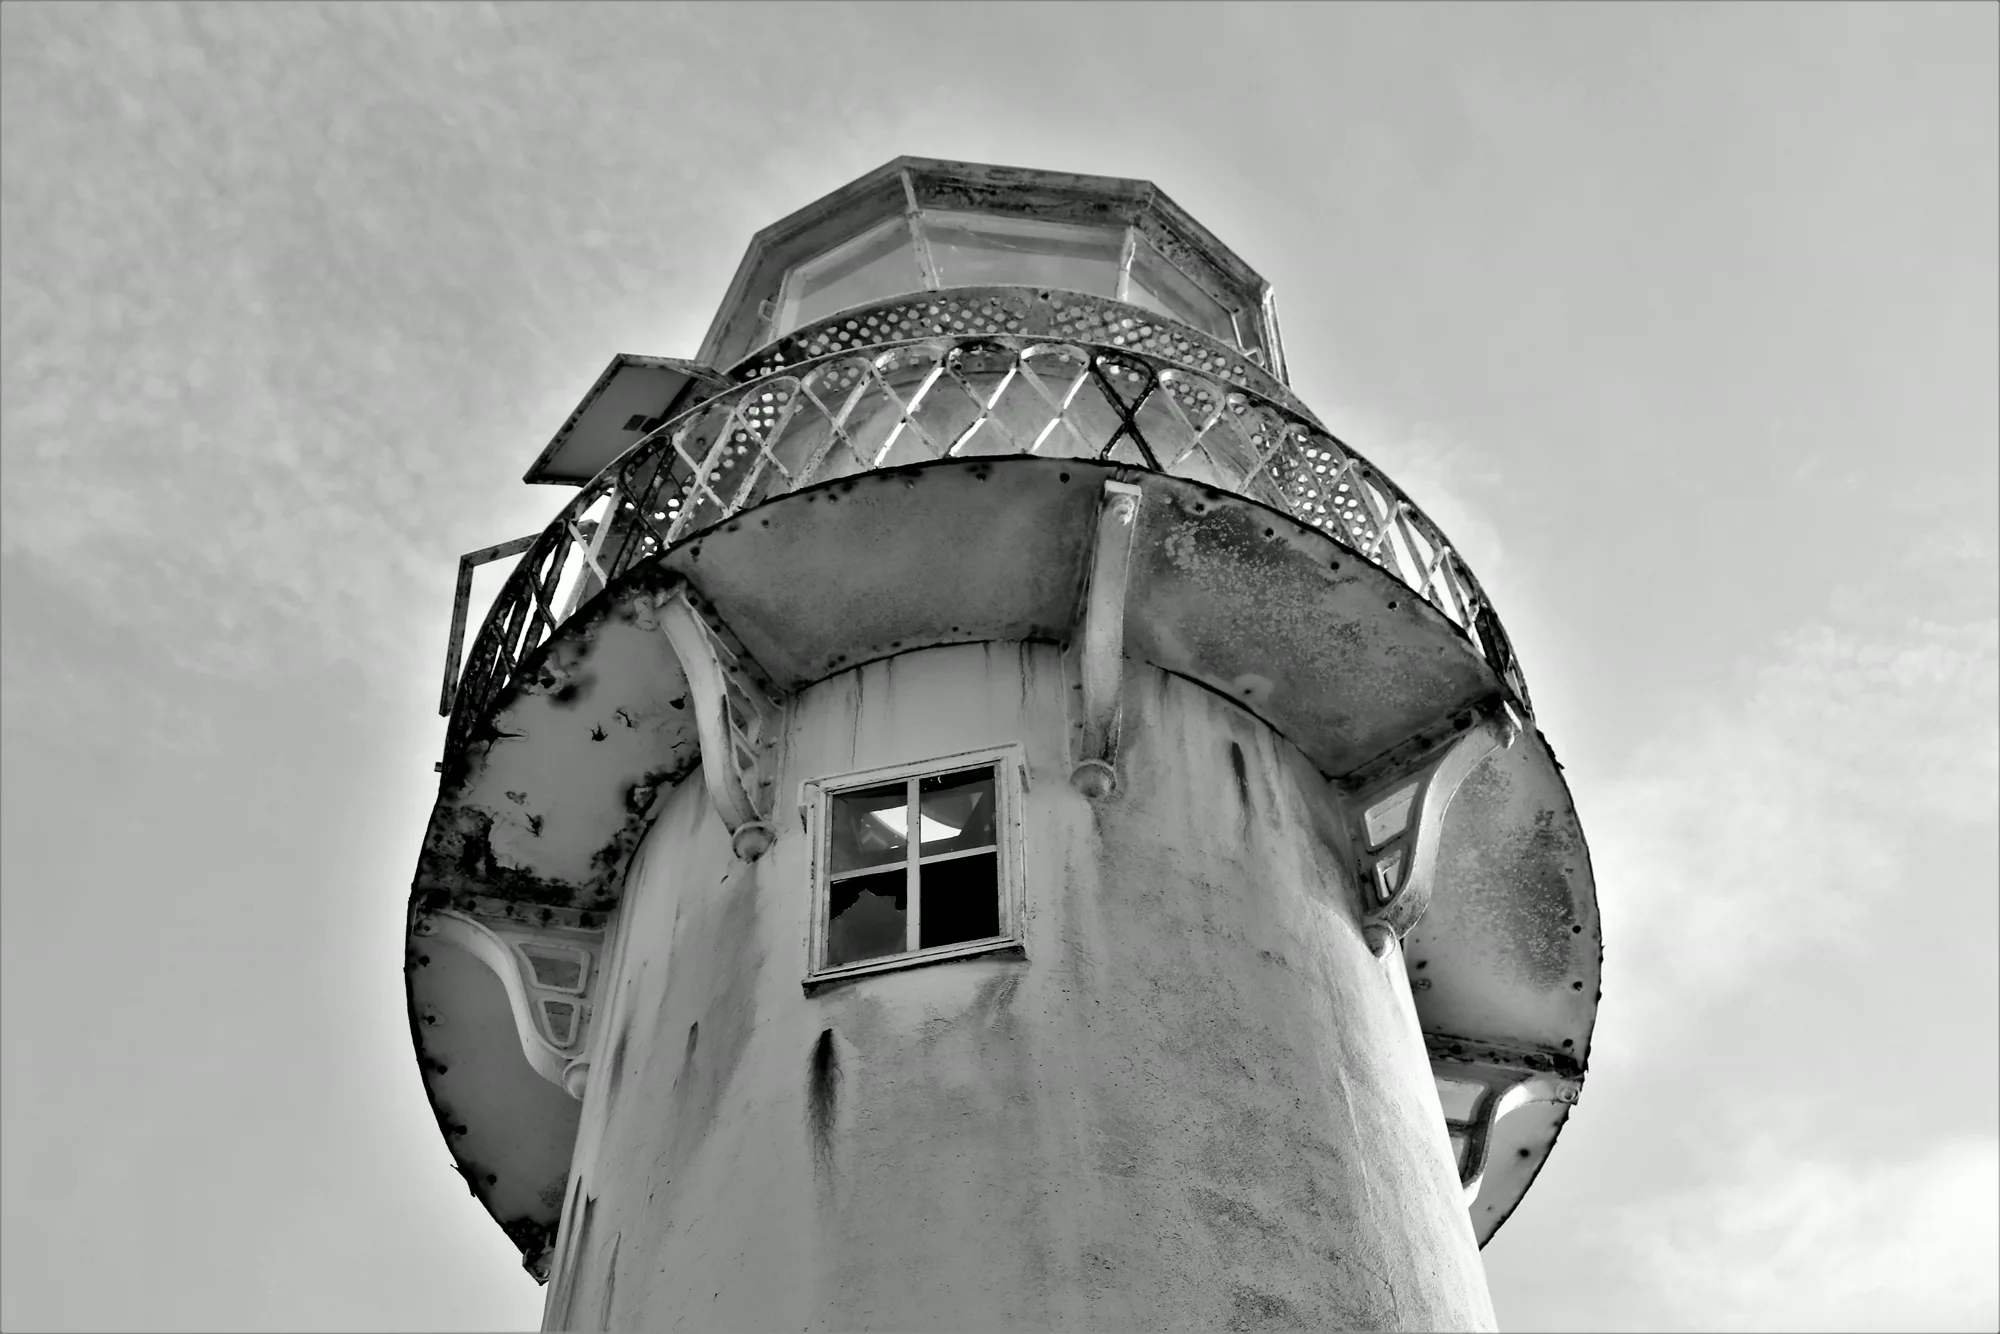
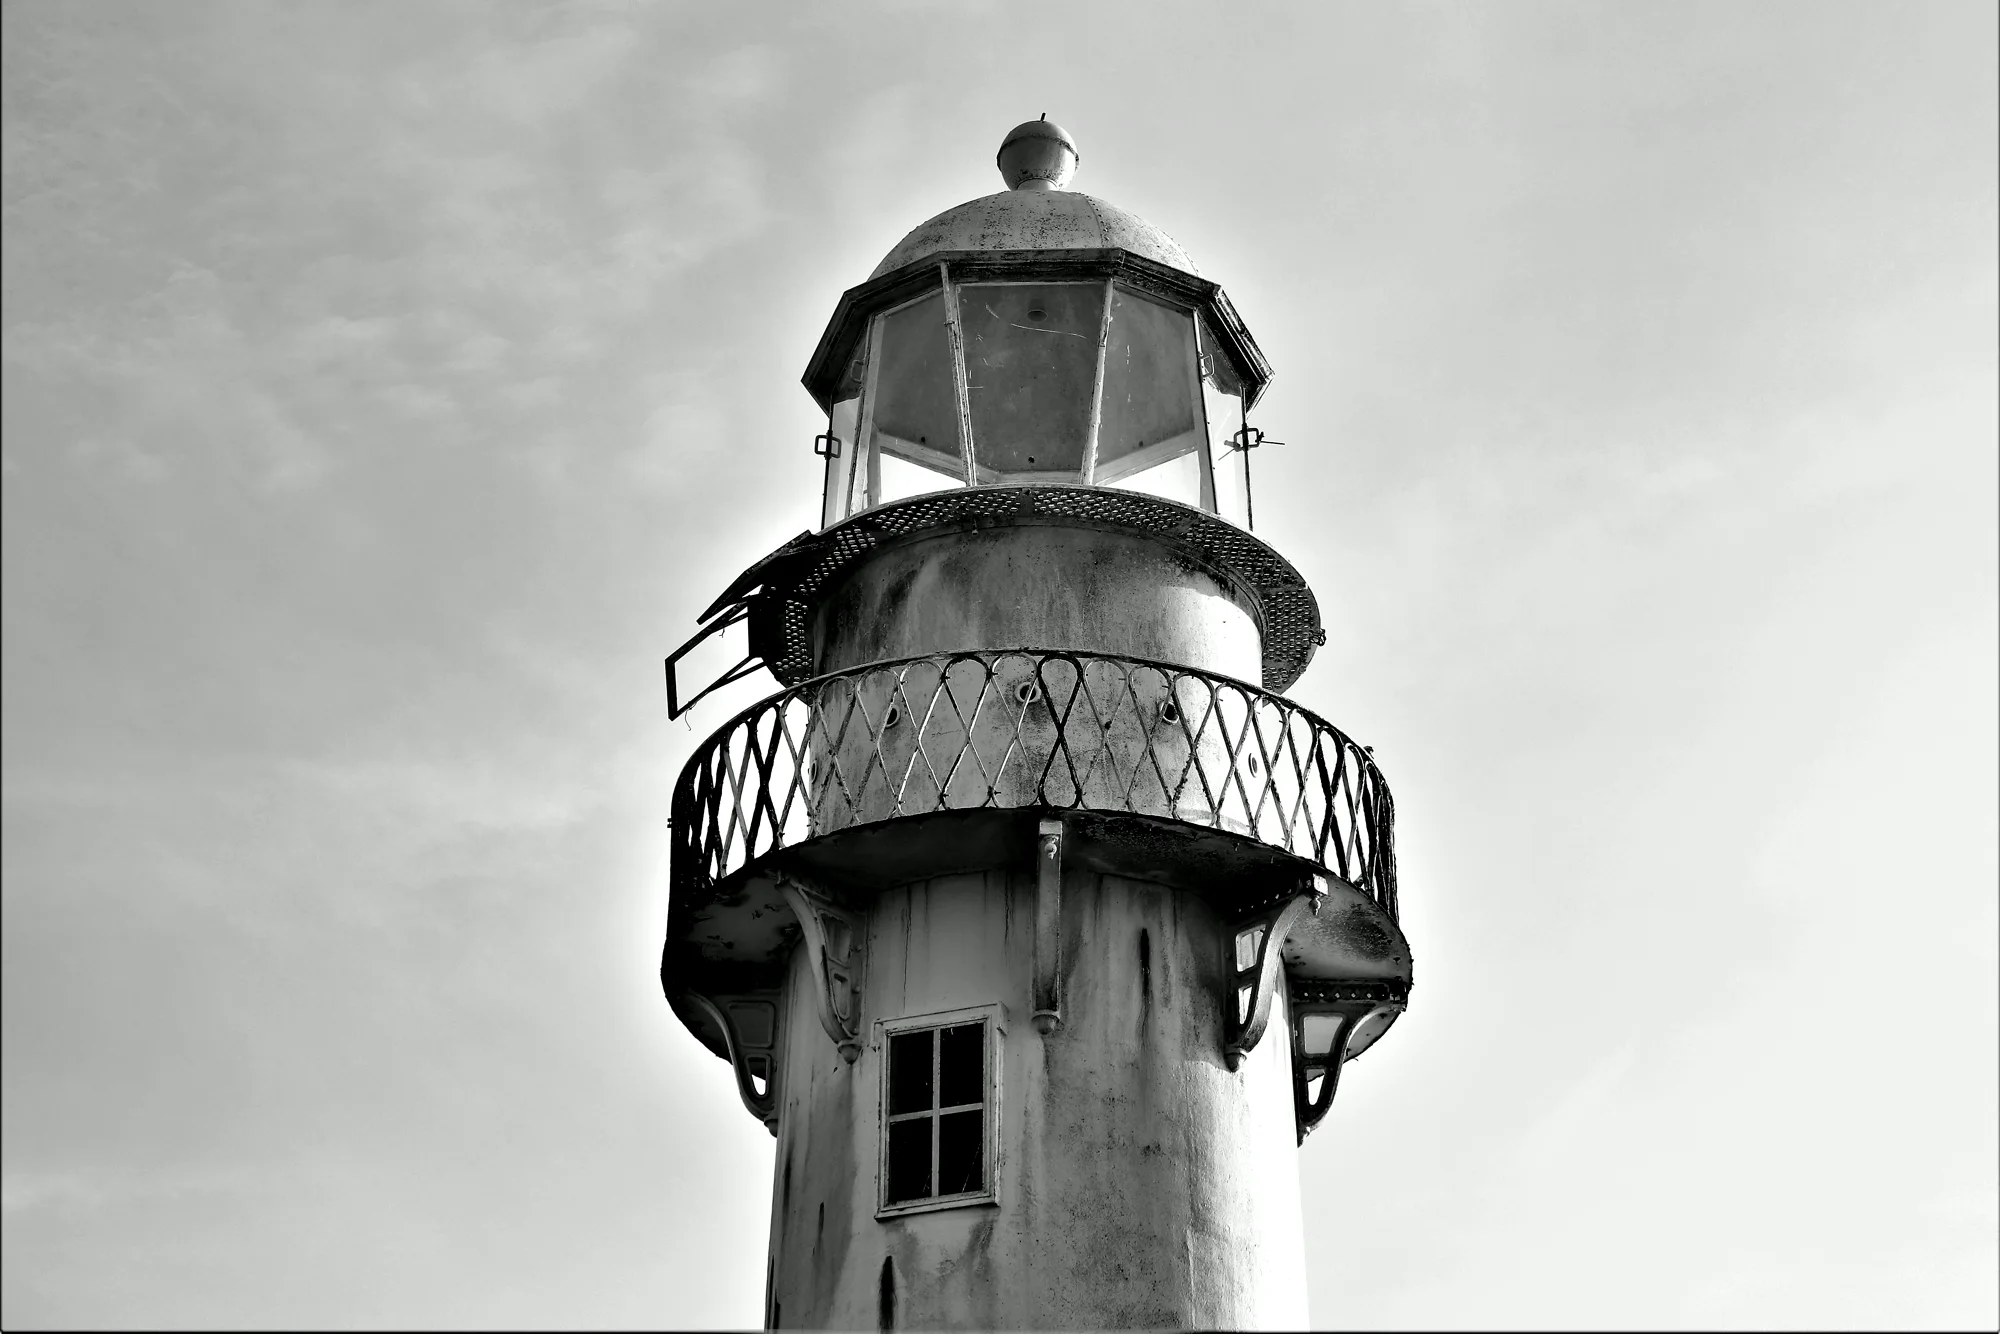
chore: update Farol das Conchas to color photo and ensure instant mobile rendering

diff --git a/index.html b/index.html
@@ -273,12 +273,12 @@
     .sec-sub { margin-top: 12px; color: var(--ink-soft); max-width: 44ch; }
     .deep .sec-sub { color: rgba(250, 246, 238, 0.78); }
 
-    .js .reveal { opacity: 0; transform: translateY(16px); transition: opacity 0.6s var(--ease), transform 0.6s var(--ease); transition-delay: 0ms; }
+    .js .reveal { opacity: 1; transform: none; transition: opacity 0.6s var(--ease), transform 0.6s var(--ease); }
     .js .reveal.in { opacity: 1; transform: none; }
     .photo { position: relative; overflow: hidden; border-radius: 24px; background: var(--sand-2); }
     .photo picture, .photo img { display: block; width: 100%; height: 100%; object-fit: cover; }
     .photo [data-par] { height: 112%; margin-top: -6%; will-change: transform; }
-    .js .clip { clip-path: inset(8% 6% 8% 6% round 24px); transition: clip-path 1.2s var(--ease); }
+    .js .clip { clip-path: inset(0); transition: clip-path 1.2s var(--ease); }
     .js .clip.in { clip-path: inset(0); }
 
     /* ---------- Apresentação Odara (abaixo da 1ª dobra) ---------- */
